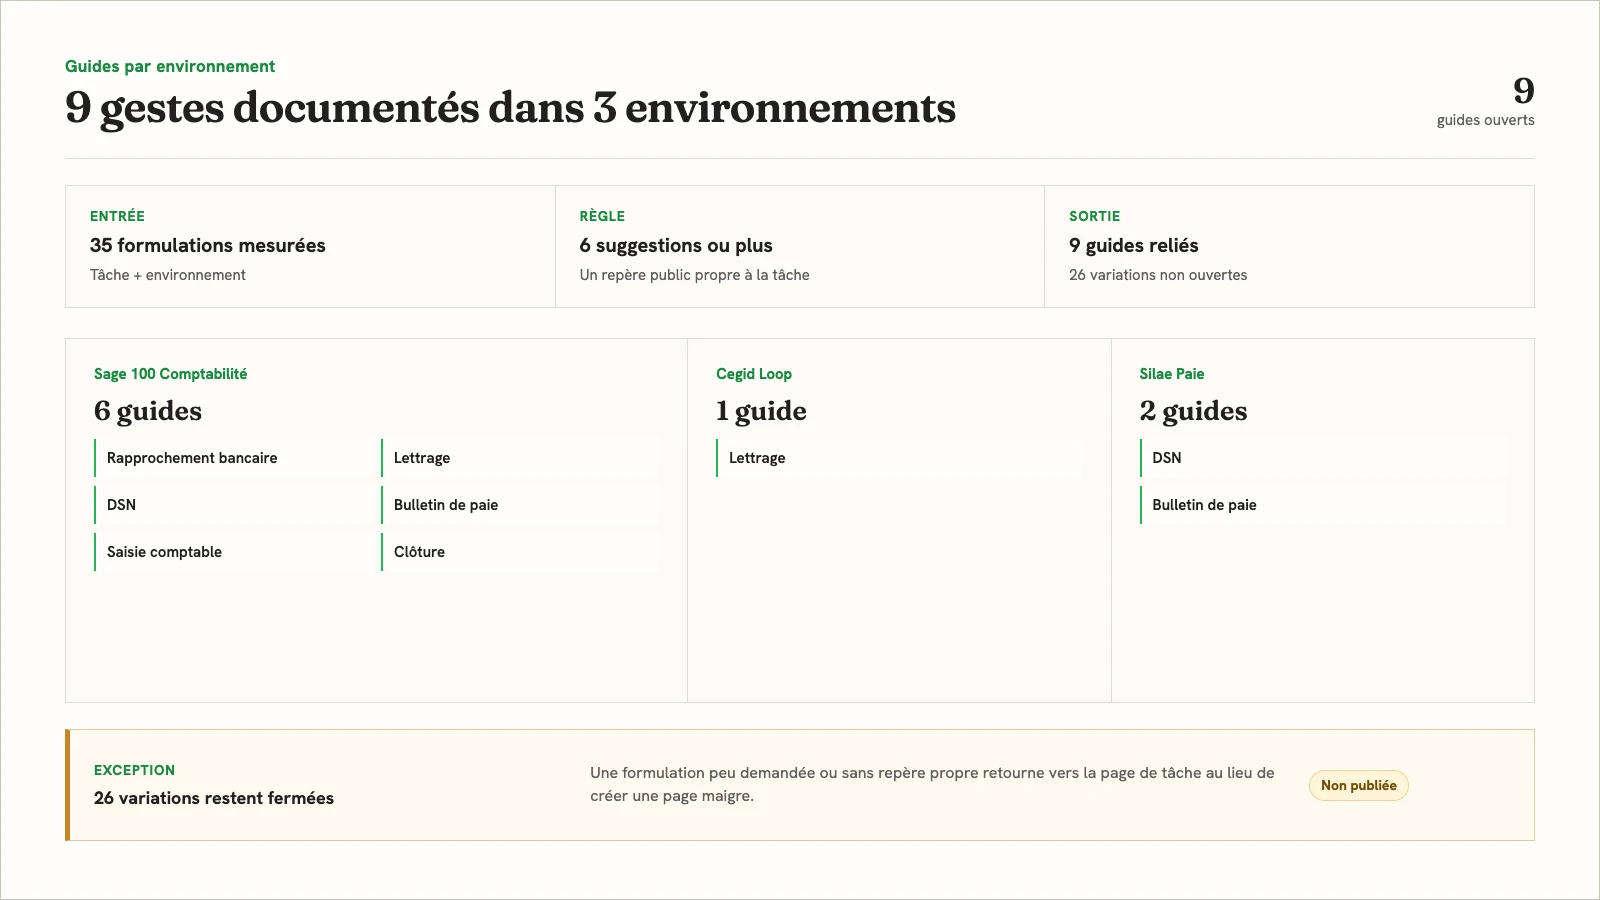
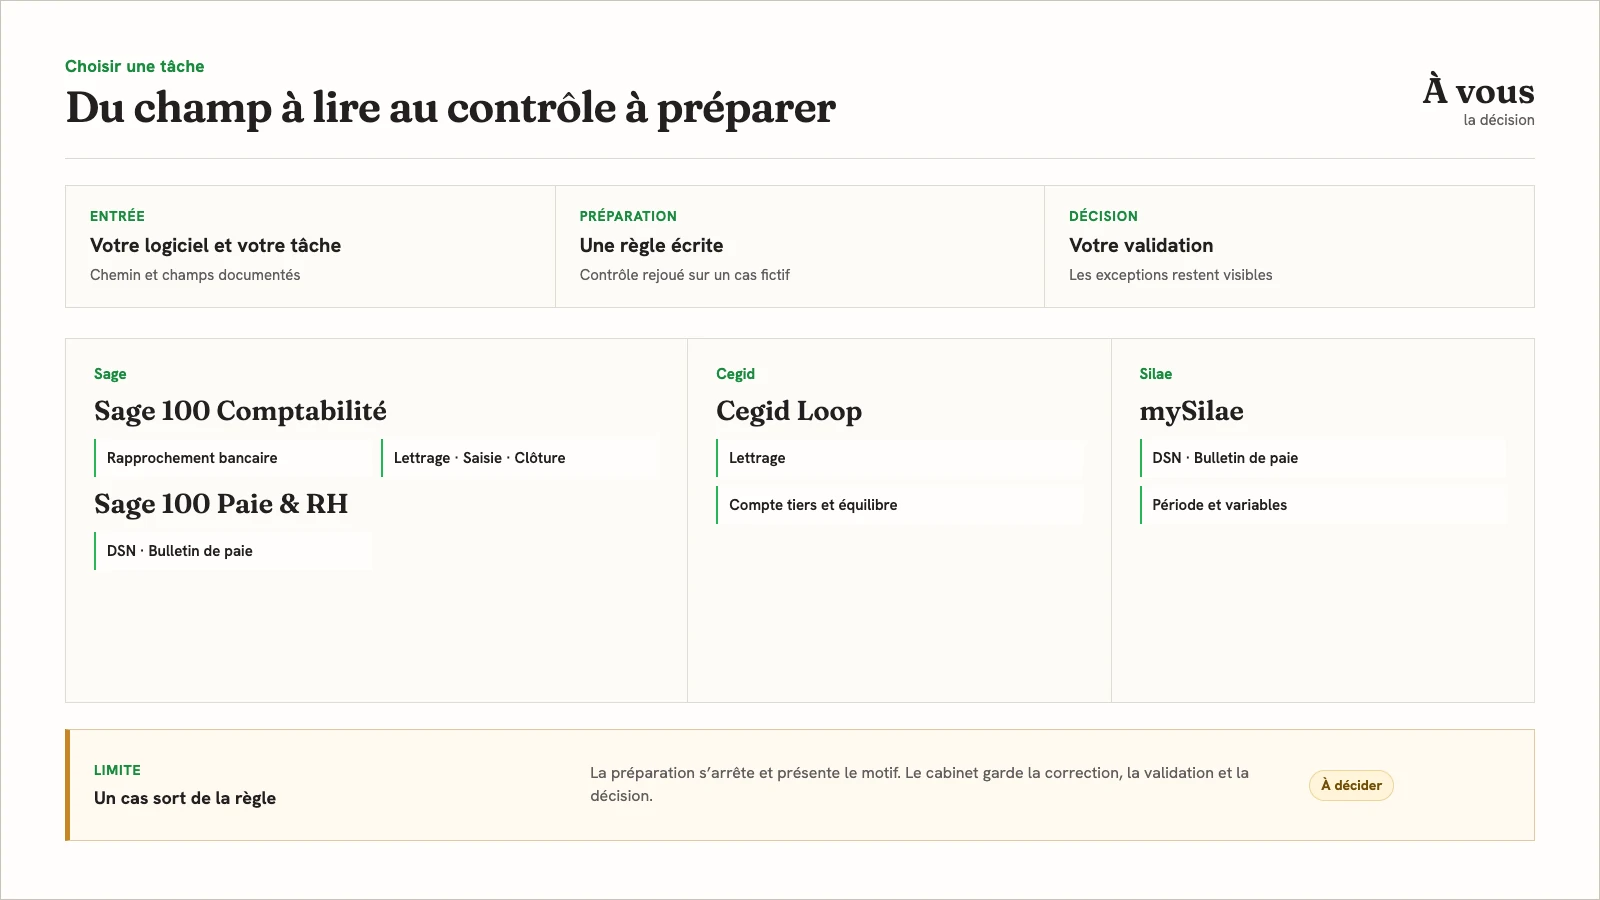
copy: orienter le hub des guides vers la tâche du cabinet

diff --git a/docs/design/integration-proofs/index.html b/docs/design/integration-proofs/index.html
@@ -7,23 +7,23 @@
 </head>
 <body>
 <main>
-  <section class="frame hub" id="hub" aria-label="Carte fictive des neuf guides publiés et des variations laissées en attente faute de demande suffisante">
+  <section class="frame hub" id="hub" aria-label="Choix d’une tâche dans les environnements Sage, Cegid et Silae, avec préparation et validation distinctes">
     <div class="workspace">
       <header class="workspace-head">
-        <div><p class="context">Guides par environnement</p><h2>9 gestes documentés dans 3 environnements</h2></div>
-        <div class="counter"><strong>9</strong><span>guides ouverts</span></div>
+        <div><p class="context">Choisir une tâche</p><h2>Du champ à lire au contrôle à préparer</h2></div>
+        <div class="counter"><strong>À vous</strong><span>la décision</span></div>
       </header>
-      <div class="flow" aria-label="Entrée, règle et sortie de publication">
-        <div><small>Entrée</small><strong>35 formulations mesurées</strong><span>Tâche + environnement</span></div>
-        <div><small>Règle</small><strong>6 suggestions ou plus</strong><span>Un repère public propre à la tâche</span></div>
-        <div><small>Sortie</small><strong>9 guides reliés</strong><span>26 variations non ouvertes</span></div>
+      <div class="flow" aria-label="Environnement, contrôle et décision">
+        <div><small>Entrée</small><strong>Votre logiciel et votre tâche</strong><span>Chemin et champs documentés</span></div>
+        <div><small>Préparation</small><strong>Une règle écrite</strong><span>Contrôle rejoué sur un cas fictif</span></div>
+        <div><small>Décision</small><strong>Votre validation</strong><span>Les exceptions restent visibles</span></div>
       </div>
       <div class="guide-grid">
-        <article><p class="label">Sage 100 Comptabilité</p><strong>6 guides</strong><ul><li>Rapprochement bancaire</li><li>Lettrage</li><li>DSN</li><li>Bulletin de paie</li><li>Saisie comptable</li><li>Clôture</li></ul></article>
-        <article><p class="label">Cegid Loop</p><strong>1 guide</strong><ul><li>Lettrage</li></ul></article>
-        <article><p class="label">Silae Paie</p><strong>2 guides</strong><ul><li>DSN</li><li>Bulletin de paie</li></ul></article>
+        <article><p class="label">Sage</p><strong>Sage 100 Comptabilité</strong><ul><li>Rapprochement bancaire</li><li>Lettrage · Saisie · Clôture</li></ul><strong>Sage 100 Paie &amp; RH</strong><ul><li>DSN · Bulletin de paie</li></ul></article>
+        <article><p class="label">Cegid</p><strong>Cegid Loop</strong><ul><li>Lettrage</li><li>Compte tiers et équilibre</li></ul></article>
+        <article><p class="label">Silae</p><strong>mySilae</strong><ul><li>DSN · Bulletin de paie</li><li>Période et variables</li></ul></article>
       </div>
-      <aside class="exception"><div><small>Exception</small><strong>26 variations restent fermées</strong></div><p>Une formulation peu demandée ou sans repère propre retourne vers la page de tâche au lieu de créer une page maigre.</p><span class="state warning">Non publiée</span></aside>
+      <aside class="exception"><div><small>Limite</small><strong>Un cas sort de la règle</strong></div><p>La préparation s’arrête et présente le motif. Le cabinet garde la correction, la validation et la décision.</p><span class="state warning">À décider</span></aside>
     </div>
   </section>
 

diff --git a/tests/browser/integrations-hub-copy.spec.ts b/tests/browser/integrations-hub-copy.spec.ts
@@ -1,0 +1,47 @@
+import { test, expect } from '@playwright/test';
+
+for (const width of [320, 375, 768, 1024, 1440, 1920]) {
+  test(`hub guides : choisir une tâche à ${width}px`, async ({ page }) => {
+    await page.setViewportSize({ width, height: 900 });
+    await page.goto('/integrations');
+    await expect(page.locator('h1')).toHaveText('Guides par environnement comptable');
+    const count = await page.locator('script[type="application/ld+json"]').first().evaluate(el =>
+      JSON.parse(el.textContent!)['@graph'].find((node: any) => node['@type'] === 'ItemList').numberOfItems);
+    await expect(page.locator('.page-chapeau')).toContainText(`Les ${count} guides`);
+    await expect(page.locator('link[rel="canonical"]')).toHaveAttribute('href', 'https://memlia.fr/integrations');
+    await expect(page.locator('[data-integration-cards] > li')).toHaveCount(count);
+    const titles = await page.locator('[data-integration-cards] h3').allTextContents();
+    for (const title of titles) {
+      expect(title).toMatch(/ dans (Sage 100 Comptabilité|Sage 100 Paie & RH|Cegid Loop|mySilae)$/);
+      expect(title).not.toMatch(/Dsn|sage|cegid|silae/);
+    }
+    await expect(page.locator('main')).not.toContainText(/moyeu|signal d.indexation|Mesurer, publier peu/i);
+    await expect(page.locator('#suite a', { hasText: 'Confier une première tâche' })).toHaveAttribute('href', '/contact');
+    expect(await page.evaluate(() => document.documentElement.scrollWidth)).toBeLessThanOrEqual(width);
+    if (width === 375 || width === 1440) {
+      await page.evaluate(() => document.querySelectorAll('.rv, .rv-groupe').forEach(el => el.classList.add('in')));
+      await page.emulateMedia({ reducedMotion: 'reduce' });
+      await page.screenshot({ path: `.qa/integrations-hub-${width}.png`, fullPage: true });
+    }
+  });
+}
+
+test('chaque carte mène au guide décrit, puis le CTA mène au contact', async ({ page }) => {
+  await page.goto('/integrations');
+  const cards = await page.locator('[data-integration-cards] a').evaluateAll(elements => elements.map(el => ({
+    path: el.getAttribute('href')!, description: el.querySelector('p')!.textContent!,
+  })));
+  const items = await page.locator('script[type="application/ld+json"]').first().evaluate(el =>
+    JSON.parse(el.textContent!)['@graph'].find((node: any) => node['@type'] === 'ItemList').itemListElement);
+  expect(cards.length).toBe(items.length);
+  for (const card of cards) {
+    await page.goto('/integrations');
+    await page.locator(`[data-integration-cards] a[href="${card.path}"]`).click();
+    await expect(page).toHaveURL(new RegExp(`${card.path}$`));
+    await expect(page.locator('h1')).toHaveText(items.find((item: any) => new URL(item.url).pathname === card.path).name);
+    await expect(page.locator('meta[name="description"]')).toHaveAttribute('content', card.description);
+  }
+  await page.goto('/integrations');
+  await page.locator('#suite a', { hasText: 'Confier une première tâche' }).click();
+  await expect(page).toHaveURL(/\/contact$/);
+});

diff --git a/src/data/proofs.ts b/src/data/proofs.ts
@@ -80,7 +80,7 @@ const HISTORICAL_PROOFS = {
   'v2/27-outil-rapprochement': { title: 'Deux soldes ajustés, une différence nulle', alt: 'Contrôle fictif de rapprochement : solde bancaire ajusté 1 000 euros, solde comptable ajusté 1 000 euros, différence nulle et CSV local prêt.', detail: 'Le fichier CSV local n’est disponible que si les soldes ajustés concordent et qu’aucun élément inexpliqué ne subsiste.' },
   'v2/28-outil-amortissement': { title: 'Un plan annuel, chaque prorata visible', alt: 'Plan fictif d’amortissement linéaire : valeur de 10 000 euros, mise en service le 1er avril 2026, durée de cinq ans, première dotation calculée sur 275 jours.', detail: 'Le plan affiche la base, le taux, le prorata, la dotation et la valeur nette de chaque exercice. Une durée incohérente ou une éligibilité dégressive non confirmée bloque le résultat.' },
   /* Série des guides par environnement : dix scènes distinctes, rendues par render-integration-proofs.mjs. */
-  'integrations/hub': { title: 'Neuf guides, la tâche avant le logiciel', alt: 'Carte fictive des neuf guides par environnement, regroupés entre Sage, Cegid et Silae, avec la frontière de validation humaine.', detail: 'Le hub distribue neuf guides documentaires. Chaque environnement reste un repère de cadrage, jamais une promesse de compatibilité.' },
+  'integrations/hub': { title: 'Choisir la tâche et garder la décision', alt: 'Carte des tâches dans Sage 100 Comptabilité, Sage 100 Paie & RH, Cegid Loop et mySilae : champs à lire, préparation et validation humaine distinctes.', detail: 'Chaque guide indique les repères documentaires, la préparation illustrée et les décisions du cabinet. Les formats et accès sont vérifiés avant toute automatisation.' },
   'integrations/rapprochement-bancaire-sage': { title: 'L’écart Sage reste ouvert', alt: 'Rapprochement bancaire Sage fictif : un mouvement proposé, un paiement groupé et un mouvement sans pièce laissés à vérifier.', detail: 'La clé écrite propose le cas certain. Plusieurs combinaisons ou une pièce absente gardent l’écart ouvert.' },
   'integrations/lettrage-sage': { title: 'Une paire certaine, sinon rien', alt: 'Lettrage Sage fictif : deux écritures proposées ensemble et une différence de montant laissée ouverte.', detail: 'Le compte, la référence et le montant concordent. Toute divergence laisse les lignes ouvertes.' },
   'integrations/dsn-sage': { title: 'Le contrôle prépare la DSN Sage', alt: 'Préparation DSN Sage fictive : contrôles d’identité et de période, anomalie SIRET isolée avant validation.', detail: 'La règle prépare les contrôles et isole la donnée absente. Le dépôt reste hors périmètre.' },

diff --git a/docs/qa/copy-hub-guides/verification.md b/docs/qa/copy-hub-guides/verification.md
@@ -1,0 +1,37 @@
+# Hub des guides — passe de copy
+
+Carte : t_aa2e2d05. Page : /integrations. Base : origin/main, 3f1e8b7b.
+
+## Décision et périmètre
+
+Le hub aide à choisir une tâche dans le produit exact de l’équipe. La structure commerciale, les sections, la DA, les destinations, le H1 et le canonical restent en place. Les descriptions de cartes reprennent sans modification les descriptions des guides.
+
+La passe précédente avait déjà retiré « Mesurer, publier peu, puis entretenir » et le signal d’indexation du texte HTML. La preuve figée conservait cependant les seuils SEO, les variantes fermées et un regroupement erroné des deux produits Sage. Le cadre du hub est désormais orienté vers les champs à lire, la préparation et la validation. Les neuf cadres des guides individuels sont inchangés ; leurs libellés « moyeu » sont hors périmètre (CONT-14).
+
+Les titres des cartes utilisent la tâche et le nom exact du produit : DSN, Sage, Cegid et mySilae conservent leur casse. Cette présentation est activée seulement sur le hub ; les autres usages d’IntegrationCards sont inchangés. Les comptes du texte, des groupes et de l’ItemList viennent de la collection existante. L’image ne comporte plus de compte éditorial figé.
+
+La clôture présente une tâche prise en charge dans les outils du cabinet, la règle écrite, les essais, la maintenance et la décision conservée. Son CTA est explicitement « Confier une première tâche » vers /contact.
+
+## Base avant publication
+
+Lecture réelle de https://memlia.fr/integrations le 8 octobre 2026 : neuf cartes vers neuf guides, quatre produits regroupés en 4/2/1/2 ; titres « Dsn sage », « Lettrage cegid », « Dsn silae » ; cadrage générique ; CTA final vers /contact. L’ancienne image affiche des seuils d’autocomplétion et les deux produits Sage sous Comptabilité. Aucun trafic, taux de conversion ou gain n’est disponible dans cette passe : aucun chiffre de performance n’est supposé.
+
+## Exécution
+
+- npm ci --no-audit --no-fund : succès.
+- npm run regen:generated : succès, audit Ressources QA PASS.
+- npm run build : succès après conservation du préfixe de description exigé par le contrat SEO.
+- python3 -m unittest discover -s tests/proof -p test_positioning.py -v : huit tests PASS.
+- node --test tests/scripts/site-copy-b.test.mjs : sept tests PASS.
+- node --test tests/scripts/integrations.test.mjs : huit tests PASS.
+- node scripts/render-integration-proofs.mjs --check : dix cadres conformes ; seul hub.webp change, 48 102 octets, 1600 × 900.
+- Playwright positioning + integrations-hub-copy : dix tests PASS ; six largeurs 320/375/768/1024/1440/1920, neuf clics vers le H1 et la description correspondants, CTA vers /contact, compte ItemList et absence de débordement.
+- Captures pleines pages à 375 et 1440 : les titres et le CTA sont lisibles après fixation de l’état d’apparition pour la capture. Aucune correction de DA n’est introduite.
+
+## Revue et publication
+
+Une seule revue QA sur cette carte. Après PASS : vérifier les contrôles GitHub, fusionner la PR et vérifier la surface réellement servie, l’image et les neuf parcours. Si une intégration dev est nécessaire, transférer le verdict acquis dans une carte dev de publication ; pas de seconde revue du fond.
+
+## Suivis à consigner après mise en ligne
+
+La date de publication effective détermine J+7 et J+28. Aux deux échéances : reprendre l’URL canonique sans paramètre, vérifier les comptes depuis les données alors publiées, ouvrir chaque guide et le CTA, vérifier les noms de produits et le mobile. Comparer impressions/clics et requêtes Search Console sur des fenêtres comparables si ces données sont accessibles. Mesurer l’usage vers les guides et les demandes qualifiées seulement si l’instrumentation les atteste. En son absence, noter « non mesuré » plutôt qu’assimiler un clic à une conversion.

diff --git a/docs/design/integration-proofs/README.md b/docs/design/integration-proofs/README.md
@@ -14,7 +14,7 @@ Chaque scène garde au centre les éléments nécessaires pour comprendre le rej
 
 Le contexte logiciel reste un libellé fonctionnel. Le jeu fictif et la portée de la démonstration vivent dans `content-contract.json`, le texte alternatif et la page qui porte l’image.
 
-Les nombres du cadre `hub` ne sont pas des statistiques externes : ils projettent la grille d’autocomplétion mesurée le 20 septembre 2026 et versionnée dans `src/data/integrations.ts`. Les 35 couples mesurés se répartissent en 9 guides ouverts à partir de 6 suggestions et 26 variations fermées. `tests/scripts/integrations.test.mjs` recalcule cette projection pour empêcher toute dérive entre la grille et le cadre.
+Le cadre `hub` aide à choisir une tâche dans son environnement : champs à lire, préparation et validation distinctes. Les mesures d’autocomplétion restent dans `src/data/integrations.ts` ; aucun seuil de publication ni compte de variantes fermées n’est affiché dans l’image. Les comptes du hub HTML et de son ItemList viennent de la collection existante. `tests/scripts/integrations.test.mjs` contrôle la grille interne et l’absence de jargon éditorial dans le cadre.
 
 ## Éléments interdits dans le cadre
 
